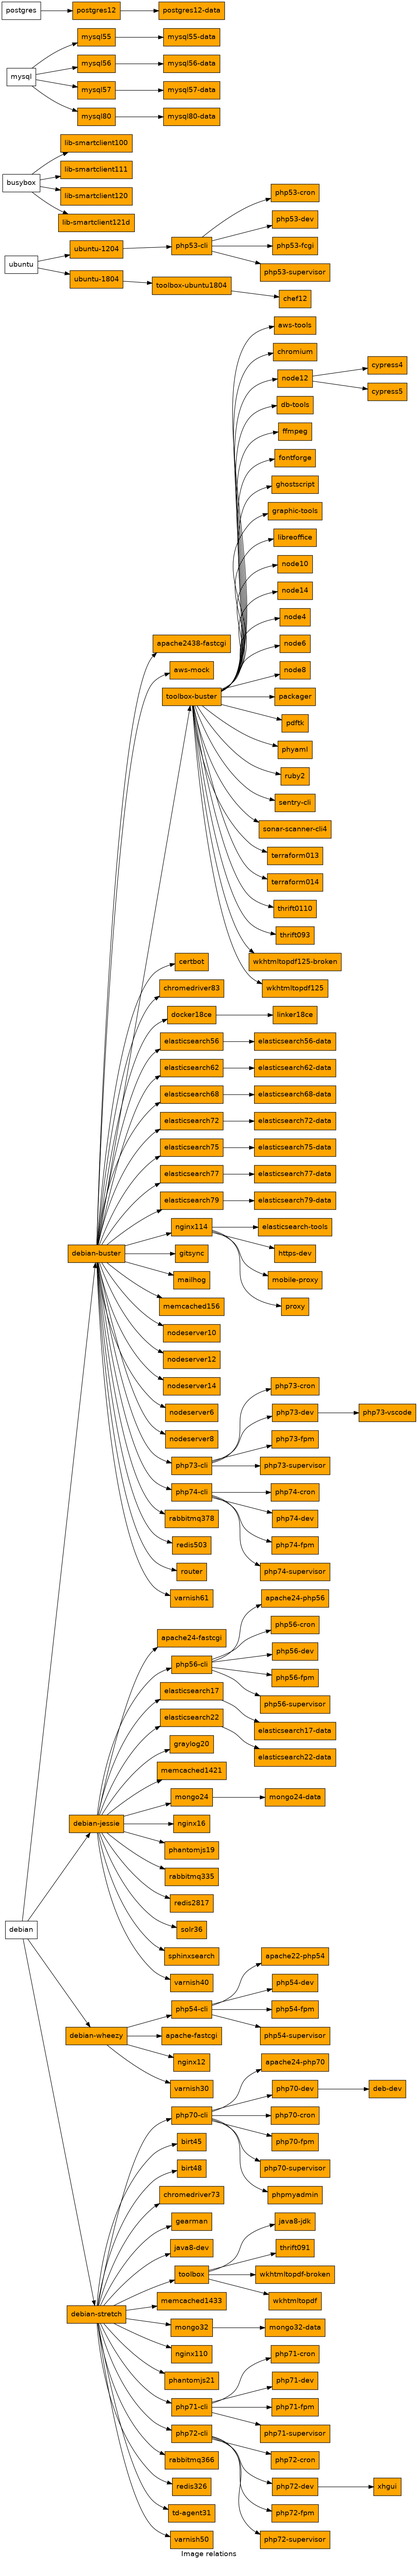
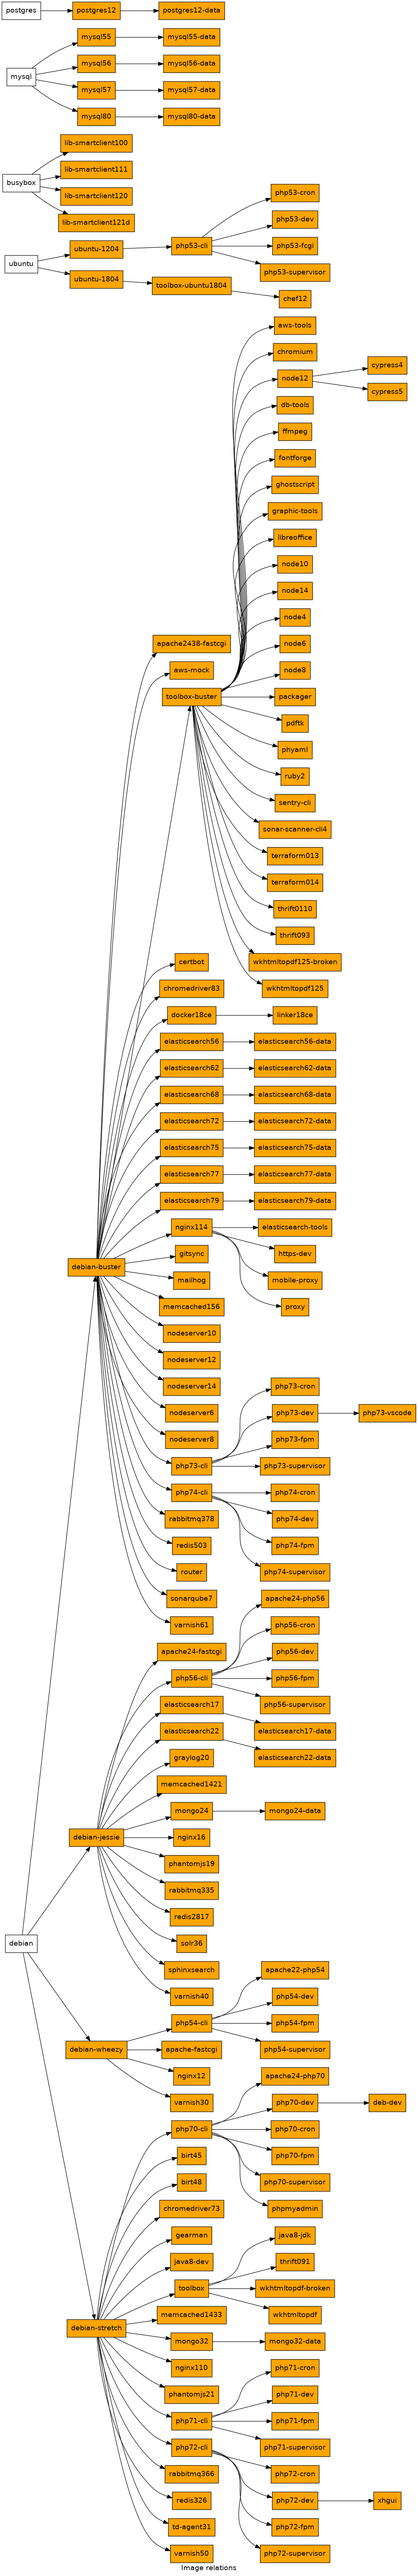
adding sonarqube v7

diff --git a/sonarqube7/README.md b/sonarqube7/README.md
@@ -1,0 +1,50 @@
+## sonar-qube v7.x
+
+
+### Sample configuration
+```
+version: '2.4'
+services:
+  sonarqube:
+    image: nfqlt/sonarqube7
+    ports:
+      - '9000:9000'
+    links:
+      - postgres
+
+
+  postgres:
+    image: nfqlt/postgres12
+    ports:
+      - '5432:5432'
+    volumes_from:
+      - 'service:postgresVol:rw'
+
+
+  postgresVol:
+    image: nfqlt/postgres12-data
+    volumes:
+      - /var/lib/postgres/data/pgdata
+
+
+  sonar:
+    image: nfqlt/sonar-scanner-cli4
+    volumes:
+      - './src:/home/project/src'
+      - /tmp
+
+  dev:
+    image: nfqlt/php73-dev
+    volumes_from:
+      - service:sonar:rw
+    volumes:
+      - './src:/home/project/src'
+      - '/home/project/.ssh:/home/project/.ssh'
+      - '/etc/ssh:/etc/ssh'
+      - '/etc/gitconfig:/etc/gitconfig'
+      - '/etc/environment:/etc/environment-vm:ro'
+    environment:
+      NFQ_REMOTE_TOOL_SONAR: >
+        /usr/bin/sonar-scanner
+```
+
